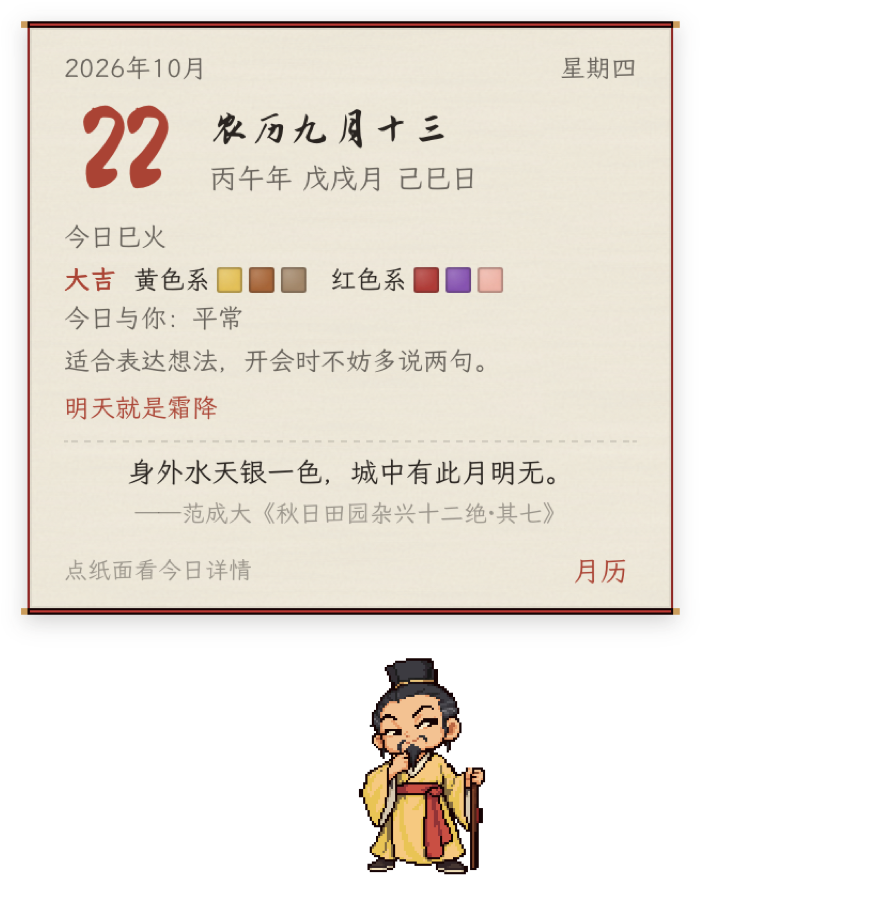
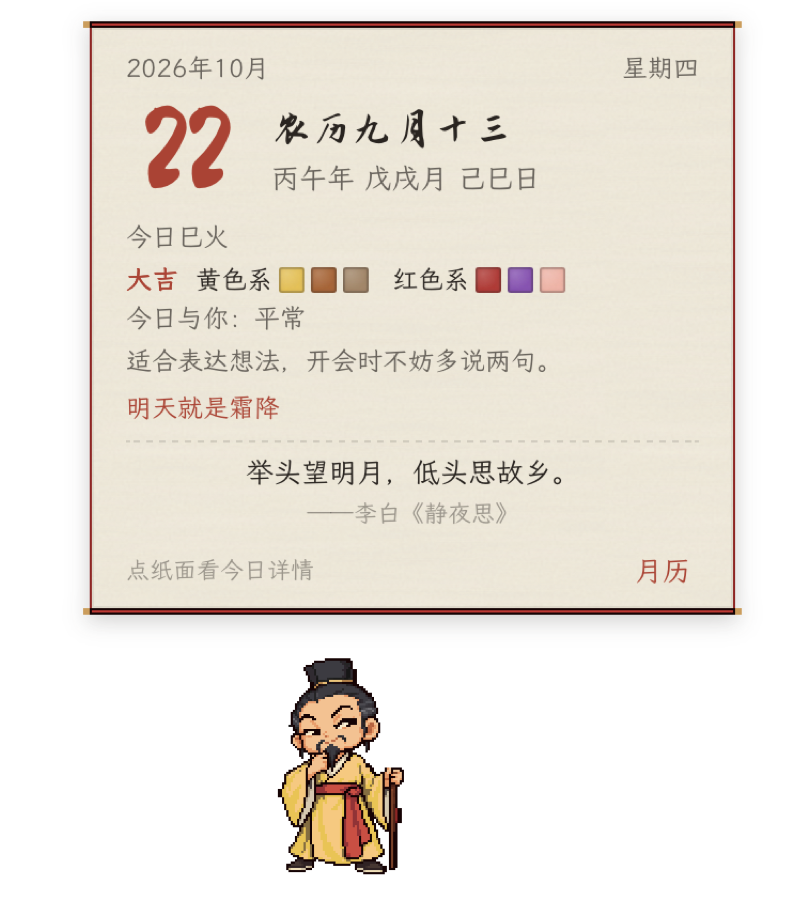
v0.4 第三轮：真实窗口截图（每日一卦动爻展开、物候与诗、分享图）、报告和 CLAUDE.md

diff --git a/src/windows/GuaApp.tsx b/src/windows/GuaApp.tsx
@@ -82,6 +82,12 @@ export function GuaApp() {
   useEffect(() => {
     if (g) setOpenLines(new Set([g.cast.moving - 1]));
   }, [g]);
+  // 开发版截图（VITE_TEST_SHOT=windows）：4 秒后滚到动爻那一条
+  useEffect(() => {
+    if (!g || !import.meta.env.DEV || import.meta.env.VITE_TEST_SHOT !== "windows") return;
+    const timer = window.setTimeout(() => document.querySelector(".gua__yao-item.is-moving")?.scrollIntoView({ block: "center" }), 4000);
+    return () => window.clearTimeout(timer);
+  }, [g]);
   if (!g) return <main className="tool paper" />;
 
   const { main, hu, changed, cast: c, input, tiYong: ty } = g;

diff --git a/CLAUDE.md b/CLAUDE.md
@@ -40,7 +40,7 @@ src/core/                  纯 TS，不依赖 React / Tauri / lunar-javascript
   bubble.ts                气泡计时
   zodiac.ts                六合、三合、六冲、六害；我的生肖和今天的关系
   lots.ts                  求签：每日签号（日期 + 本机种子）、签册
-  gua.ts                   梅花易数时间起卦（纯函数）
+  gua.ts                   梅花易数时间起卦、互卦、体用（纯函数）
   poemPick.ts              每日一诗的选诗规则（节日 > 节气 > 满月 > 当季，一年内不重复）
   luckyNumbers.ts          幸运数字（河图数配五行）
 src/calendar/
@@ -203,7 +203,7 @@ JSON 结构：`id`、`writing`（`vertical` 竖排 / `horizontal` 横排）、`b
 
 - 作者的 GitHub 用户名和仓库地址**只写在 `config/branding.json` 的 `author`、`repository`**：关于窗口（作者链接、仓库链接）、分享图上的仓库地址和二维码都从这里读。README 用相对链接（`../../releases`）并指向这个文件，`Cargo.toml` 不写 `authors`。
 - GitHub 改名后：改这两项；`git remote set-url origin https://github.com/<新用户名>/aobanxian.git`；本项目的 `git config user.email` 改成 `<id>+<新用户名>@users.noreply.github.com`（id 用 `gh api user --jq .id` 查，不变）。**不要改写已有提交**，旧提交的带 id 隐私邮箱 GitHub 仍算在同一个账号名下。
-- `tests/username.test.ts` 检查项目文件里不再出现旧用户名（git 历史除外），并检查分享图二维码扫出来就是 `repository`。
+- `tests/username.test.ts` 检查项目文件里不再出现旧用户名（git 历史除外）。分享图的二维码指向 `repository` 的 `/releases/latest`（最新版下载页，`latestReleaseUrl`），下面写「扫码下载」；落款那行仍写仓库地址。`tests/share.test.ts` 从画好的图里截出二维码解码核对。
 
 ## 设置
 
@@ -289,7 +289,15 @@ GitHub Actions（`.github/workflows/release.yml`）推送 `v*` 标签时用 taur
 - **每日一诗**：诗文来自 chinese-poetry（MIT），`scripts/poems/curated.json` 是精选清单（id、季节、标签、名句、英文题名、赏析，自撰），`npx tsx scripts/poems/build-poems.ts <chinese-poetry 目录>` 生成 `src/data/poems.json` 和 `config/poem-days.json`。**诗文不手写**；确认的数据错字写进 `TEXT_FIXES`（如千家诗本「慾斷魂」→「欲斷魂」）。唐诗、宋诗、千家诗原数据是繁体，宋词是简体，另一种字形用 OpenCC 转；简体界面显示简体，繁体界面显示繁体，英文界面保留中文原诗 + 英文大意。宋词题目自动加首句作小题（「水调歌头·明月几时有」）。
   - 选诗（`core/poemPick.ts`）：节日专属诗 > 节气专属诗 > 满月前后两天（农历十三到十七）从当季写月亮的诗里选 > 当季的诗。一年按日期顺序分配，所有诗池共用「已用过」，同一年平常日子不重复；专属诗只在当天出现。季节按节气（立春至谷雨为春……）。测试查一年 365 天季节都对、霜降《山行》、中秋《水调歌头》、清明杜牧《清明》。
   - 卡片底部一行名句（`famous`），点击打开今天的详情并跳到「物候与诗」。
-- **开发用截图**：`VITE_TEST_SHOT=card|detail npm run tauri dev` 启动后自动展开卷轴 / 打开详情并每 4 秒跳一栏，外面用 `screencapture -l <窗口号>` 截图，不用点鼠标。截图在 `preview/v0.4/`。
+  - 满月前后只从当季写月亮的诗里选（用完一轮才重复）；诗题或诗句里明写「中秋」的诗（`onlyMidAutumn`，build-poems.ts 按原文判断）只在中秋当天用。
+  - 诗题统一用短标题（`shortTitle`：组诗只留最后一层，「秋日田园杂兴十二绝·其七」），完整标题放在悬停提示里。
+- **每日一卦**（窗口从上到下）：卦象（上下经卦、经卦象征和五行、画面白话）→ 卦辞与彖传、大象传（原文 + 白话）→ 六爻逐爻（爻题、爻辞、小象传、白话；动爻高亮展开，其余收起）→ 体用 → 互卦 → 变卦（加一句「从本卦经互卦到变卦」的走向）。
+  - 彖传、大象传、小象传原文取自维基文库《周易》各卦页面（`source.revisions` 记了页面版本），解析时 `{{另|庸|墉}}` 这类异文模板取第一个（正文）。
+  - 动爻称呼：初爻、二爻……五爻、上爻，后面加爻题，如「动爻：初爻（初六）」。
+  - 体用（`core/gua.ts` 的 `tiYong`）：动爻所在的经卦为用、另一个为体；用生体、体克用、比和为「顺」，体生用、用克体为「有阻力」，**不写「凶」**。经卦五行：乾兌金、離火、震巽木、坎水、艮坤土。
+  - 互卦（`huGua`）：二至四爻为下卦、三至五爻为上卦。
+- **择日**：设置了我的生肖时，相冲的日子标灰并标「冲你」；相害的只加浅色标签「害你」，不标灰。
+- **开发用截图**：`VITE_TEST_SHOT=card|detail|windows npm run tauri dev`：card 展开卷轴；detail 再打开详情、展开四栏、每 4 秒跳一栏；windows 打开每日一卦（4 秒后滚到动爻）和分享今日窗口。外面用 `screencapture -l <窗口号>` 截图，不用点鼠标。截图在 `preview/v0.4/`。
 - 繁体：签文和诗的大意由 `build-zh-tw.ts` 用 OpenCC（`cn→twp`）生成，**不套** `UI_FIXES`（「衝→沖」只适用于黄历沖煞，散文里的「衝突」要保留）。地支「丑」在繁体里仍是「丑」（OpenCC 会转成「醜」，`TERM_FIXES` 改回）。
 
 ## 测试

diff --git a/REPORT-v0.4.md b/REPORT-v0.4.md
@@ -1,5 +1,69 @@
 # 奥半仙 v0.4 报告
 
+## 第三轮：小修正（每日一诗、诗题、分享图、动爻称呼、择日、每日一卦详细解读）
+
+版本号仍是 0.4.0，**没有打标签、没有发布**。正式版已重新构建并替换 /Applications。
+
+| 要求 | 结果 |
+| --- | --- |
+| 1. 满月只从当季月亮诗里选；写「中秋」的诗只在中秋当天 | ✅ 满月前后只从当季写月的诗里选，用完一轮才重复，不再退回别的诗。诗题或诗句里明写「中秋」的 3 首（苏轼《中秋月》、范成大《秋日田园杂兴·其七》、李清照《鹧鸪天·暗淡轻黄体性柔》）只在中秋当天用。今天改为李白《静夜思》。测试：2026–2028 年每个满月前后季节都对、都是写月的诗，只有中秋当天会出现写中秋的诗 |
+| 2. 诗题统一用短标题，完整标题放悬停提示 | ✅ 详情和卡片都显示「秋日田园杂兴十二绝·其七」这种短标题，鼠标悬停显示完整标题 |
+| 3. 分享图二维码指向 releases/latest，文字「扫码下载」，保留仓库地址 | ✅ 测试从画好的图里截出二维码解码，确认是 `…/releases/latest` |
+| 4. 动爻按传统称呼 | ✅ 「动爻：初爻（初六）」 |
+| 5. 择日：相害标「害你」（浅色、不标灰），相冲仍标灰 | ✅ 有测试 |
+| 6. 每日一卦详细解读 | ✅ 见下 |
+
+### 每日一卦
+
+窗口从上到下：
+
+1. **卦象**：「上巽下巽，巽为风」，两个经卦的象征和五行，两三句白话写卦象画面。
+2. **卦辞与彖传、大象传**：卦辞、「彖曰」「象曰」原文，各附一段白话。
+3. **六爻逐爻**：初爻到上爻六条，每条有爻题、爻辞、小象传原文、一句白话。动爻高亮并展开，其余收起，点开可看。
+4. **体用**：
+   - 动爻所在的经卦为用，另一个为体。
+   - 用生体、体克用、比和标「顺」；体生用、用克体标「有阻力」。
+   - 再用白话讲对今天的意义，不写「凶」。
+5. **互卦**：卦名、卦辞、一句白话，并注明「本卦看开始，互卦看过程，变卦看结果」。
+6. **变卦**：原有内容，加一句「整件事从『柔顺渗透』开始，经过『……』，最后走向『……』」。
+
+**原文来源**：彖传、大象传、小象传 64 卦齐全，全部取自维基文库《周易》各卦页面，数据里记了每页的版本号。
+
+**今天的结果**（你今天第一次起卦在未时）：
+- 本卦巽为风，动爻初爻（初六）。
+- 用为下卦巽，体为上卦巽，比和，所以是「顺」。
+- 互卦火泽睽，变卦风天小畜。
+
+这些都和你给的一致，写进了测试。另外用固定日期验证了体用和互卦：
+- 观梅占泽火革：用克体，有阻力；互卦天风姤。
+- 风火家人：用生体，顺；互卦火水未济。
+- 地雷复：体克用，顺；互卦坤为地。
+
+还验证了 64 种卦的互卦只有 16 种，以及乾、坤的互卦是自己。
+
+### 本轮我替你做的决定
+
+1. **「顺」「平」「有阻力」**：按你给的分法，用生体、体克用、比和都是「顺」，体生用、用克体是「有阻力」。所以「平」这一档没有用上。
+2. **互卦的「一句白话」**：每卦另写了一句话，不复用原来较长的白话解读。
+3. **变卦的走向句**：用每卦一个主题短语拼成「从××开始，经过××，最后走向××」。中间加了互卦，对应「开始、过程、结果」。
+4. **原文异文**：
+   - 维基文库原文里的异文模板取第一个（正文），如同人九四小象「乘其{{另|庸|墉}}」取「庸」。
+   - 写白话的人提醒：剥卦卦辞原文断作「不利。有攸往。」，通行断法是「不利有攸往」。原文没改，白话按彖传的读法写。
+5. **「明写中秋」按字面判断**：只看诗题和诗句里有没有「中秋」二字。王建《十五夜望月》这类写八月十五、但没写「中秋」的诗，仍可在秋天的满月前后出现。
+6. **截图时用了你的起卦时辰**：截图用的开发版和正式版共用设置文件。截图前备份了 `settings.json`，截完已恢复；截图里的起卦时辰就是你今天记下的未时。
+
+### 新截图（`preview/v0.4/`）
+
+| 文件 | 内容 |
+| --- | --- |
+| `gua-top.png` | 每日一卦顶部：卦象、卦辞与彖传 |
+| `gua-moving.png` | 每日一卦的六爻：动爻初爻（初六）高亮展开，下面是体用「顺」 |
+| `detail-nature-more.png` | 详情的物候与诗（菊有黄华、小月亮、李白《静夜思》）、更多黄历 |
+| `share.png` | 分享图：二维码下写「扫码下载」，落款下保留仓库地址 |
+| `card.png` | 卡片名句（今天是《静夜思》） |
+
+---
+
 ## 这次补齐了什么（v0.4 第二轮）
 
 你核查后指出今日详情和要求差很多。这一轮按完整要求逐条补齐，版本号仍是 0.4.0，**没有打标签、没有发布**。
